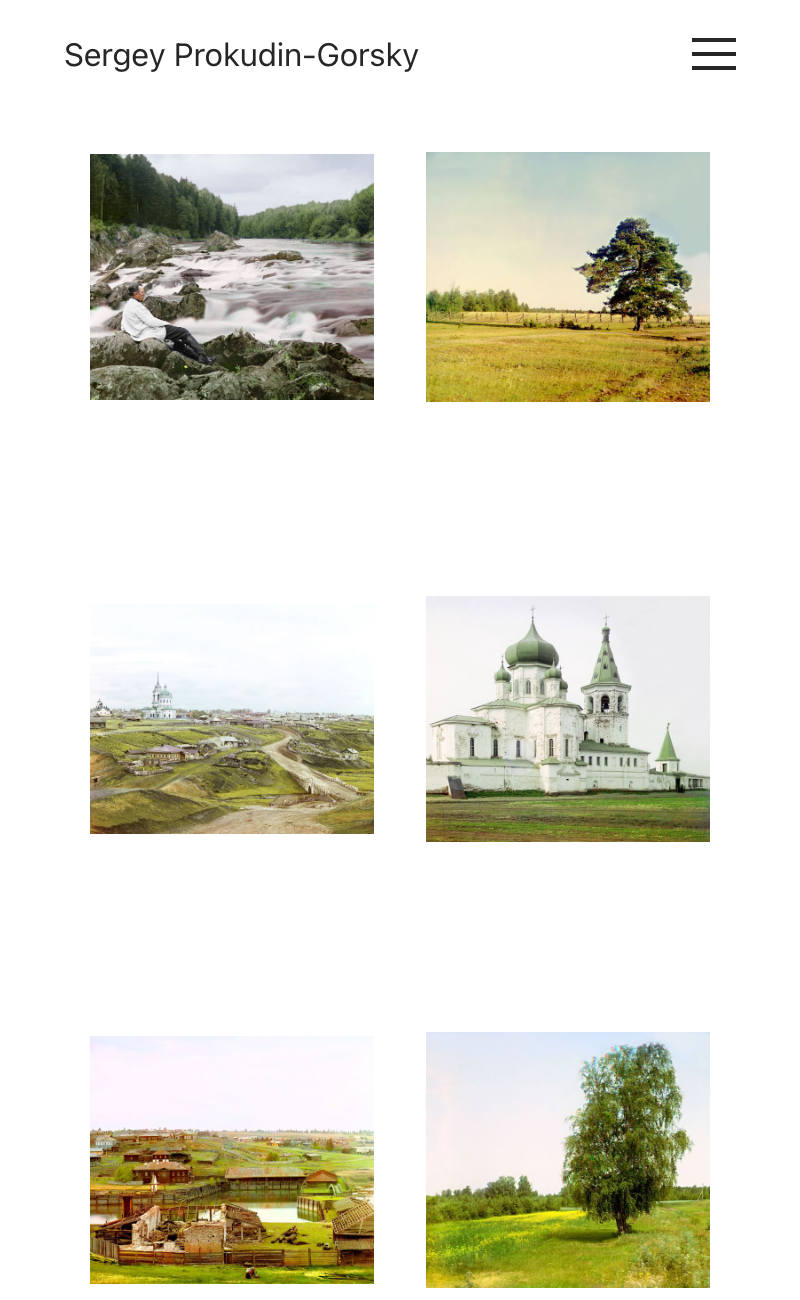
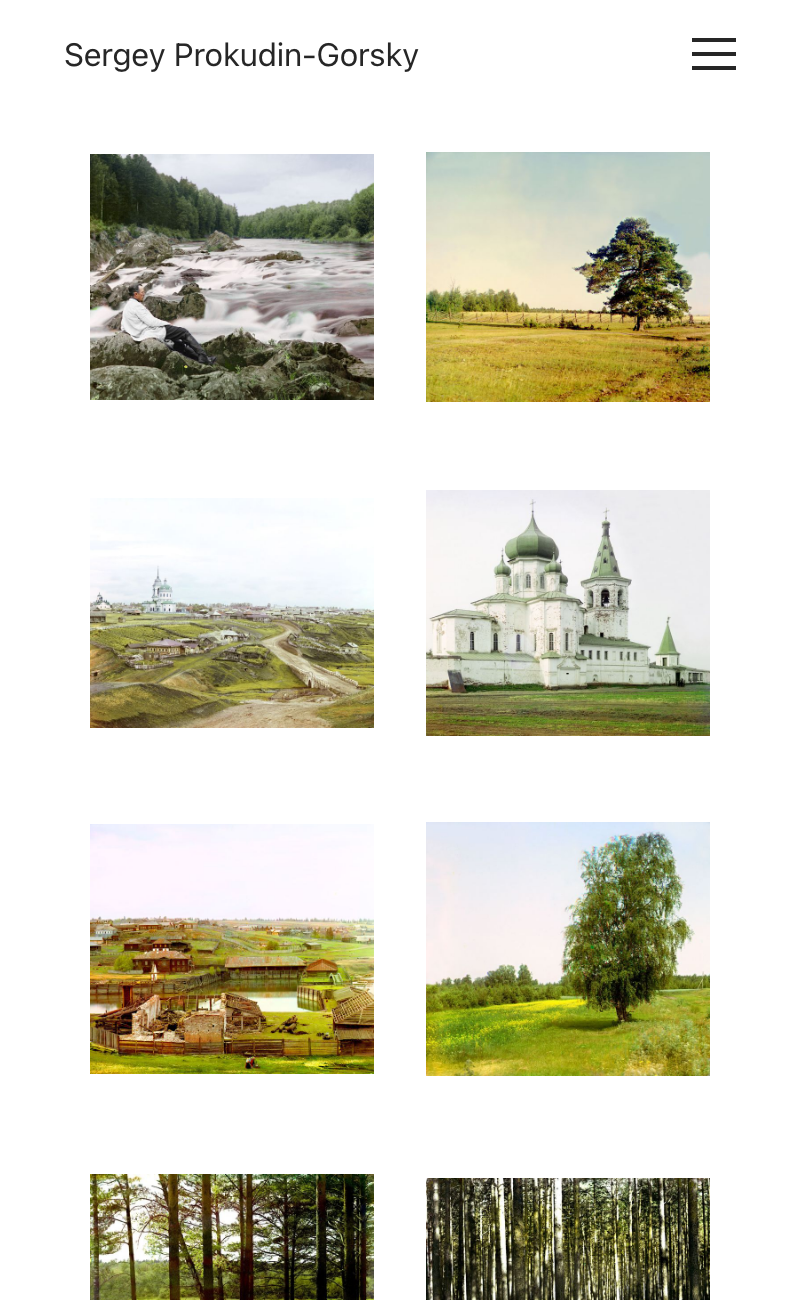
Tighten album index grid and hide leftover chrome

diff --git a/app/templates/source/album/_grid_square.html b/app/templates/source/album/_grid_square.html
@@ -17,7 +17,6 @@
   .post {
     position: relative;
     padding: 0.8rem;
-    margin-bottom: 2rem;
     width: 25%;
     cursor: zoom-in;
     box-sizing: border-box;
@@ -38,7 +37,7 @@
     {{#medium}}
     .post {width: 50%;}
     @media screen and (min-width: 540px) {.post {width: 33.3333%;}}
-    @media screen and (min-width: 800px) {.post {width: 33.3333%%;}}
+    @media screen and (min-width: 800px) {.post {width: 33.3333%;}}
     @media screen and (min-width: 1000px) {.post {width: 25%;}}
     @media screen and (min-width: 1200px) {.post {width: 20%;}}
     {{/medium}}
@@ -79,7 +78,6 @@
     display: block;
     overflow: hidden;
     position: relative;
-    margin-bottom: 1.3rem
   }
 
   .post .thumbnail:after {
@@ -160,7 +158,7 @@
           sizes="(max-width: 540px) 33vw, (max-width: 800px) 25vw, (max-width: 1000px) 20vw, (max-width: 1200px) 16vw, 14vw"
           {{/small}}
           {{#medium}}
-          sizes="(max-width: 540px) 50vw, (max-width: 800px) 33.3333vw, (max-width: 1000px) 33.3333vw, 20vw"
+          sizes="(max-width: 540px) 50vw, (max-width: 800px) 33.3333vw, (max-width: 1000px) 33.3333vw, (max-width: 1200px) 25vw, 20vw"
           {{/medium}}
           {{#large}}
           sizes="(max-width: 540px) 100vw, (max-width: 800px) 100vw, (max-width: 1000px) 50vw, (max-width: 1200px) 50vw"

diff --git a/app/templates/source/album/script.js b/app/templates/source/album/script.js
@@ -100,9 +100,12 @@ let infScroll = new InfiniteScroll( '.posts', {
 
 infScroll.on( 'history', function( title, path ) {
   const pageNumber = parseInt(path.split('/').pop()) || 1;
-  document.getElementById('current-page').innerHTML = pageNumber;
-  document.querySelector('.next-page').href = '/page/' + (pageNumber+1);
-  document.querySelector('.previous-page').href = '/page/'  + (pageNumber-1);
+  const current = document.getElementById('current-page');
+  if (current) current.innerHTML = pageNumber;
+  const next = document.querySelector('.next-page');
+  if (next) next.href = '/page/' + (pageNumber+1);
+  const previous = document.querySelector('.previous-page');
+  if (previous) previous.href = '/page/'  + (pageNumber-1);
 });
 
 

diff --git a/app/templates/source/album/_grid_bookshelf.html b/app/templates/source/album/_grid_bookshelf.html
@@ -12,7 +12,6 @@
 .post {
   position: relative;
   padding: 0.8rem;
-  margin-bottom: 2rem;
   width: 25%;
   cursor: zoom-in;
   box-sizing: border-box;
@@ -33,7 +32,7 @@
   {{#medium}}
   .post {width: 50%;}
   @media screen and (min-width: 540px) {.post {width: 33.3333%;}}
-  @media screen and (min-width: 800px) {.post {width: 33.3333%%;}}
+  @media screen and (min-width: 800px) {.post {width: 33.3333%;}}
   @media screen and (min-width: 1000px) {.post {width: 25%;}}
   @media screen and (min-width: 1200px) {.post {width: 20%;}}
   {{/medium}}
@@ -74,7 +73,6 @@
   display: block;
   overflow: hidden;
   position: relative;
-  margin-bottom: 1.3rem
 }
 
 .post .thumbnail:after {

diff --git a/app/templates/source/album/style.css b/app/templates/source/album/style.css
@@ -211,6 +211,7 @@ nav a:not([href]) {
 }
 
 #toggle {
+  display: none;
   position: absolute;
   top: calc({{spacing}}rem/2);
   right:  {{spacing}}rem;
@@ -313,7 +314,17 @@ font-feature-settings: 'tnum';
 
     .yield.flex {display: block}
 
+  #toggle {
+    display: block;
+  }
+
 }
+
+{{#infinite_scroll}}
+a.next-page {
+  display: none;
+}
+{{/infinite_scroll}}
 
 
 .edge a {
